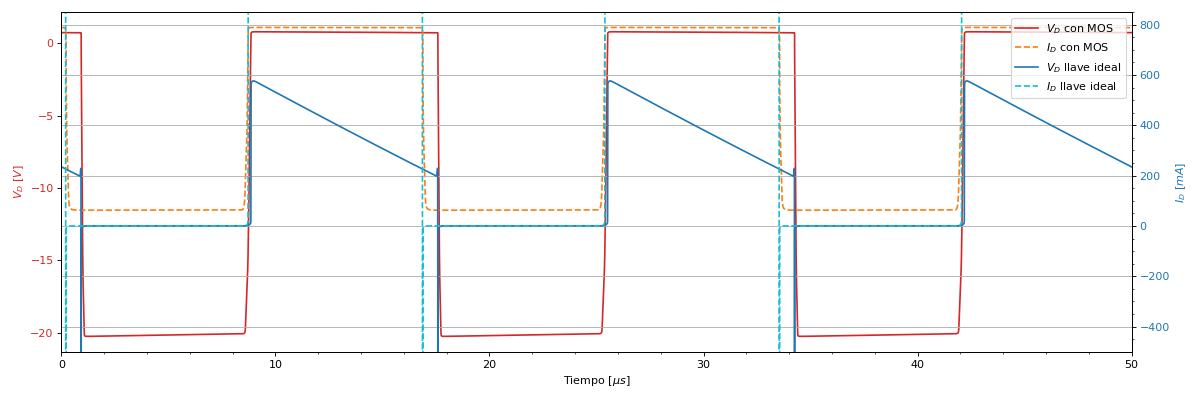
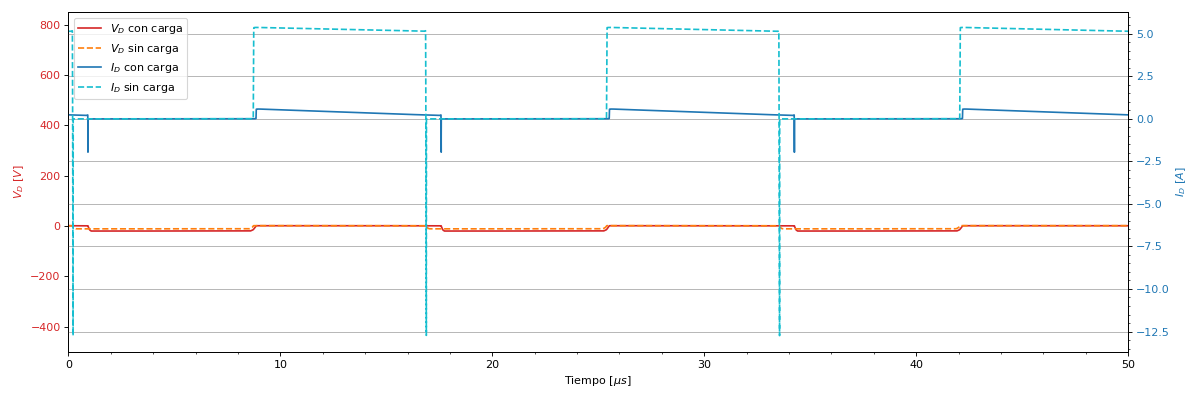
gido ke keres?

diff --git a/TP1/Ejercicio 3/Python/SpiceCurves.py b/TP1/Ejercicio 3/Python/SpiceCurves.py
@@ -67,7 +67,7 @@ def giveMe4WithCrop(x1, y1, x2, y2, x1p, y1p, x2p, y2p, yLabel1, yLabel2, xLabel
         ax1.set_ylim(ylim2[0], ylim2[1])
         ax2.set_ylim(ylim2[0], ylim2[1])
 
-def giveMe4(x1, y1, x2, y2, x1p, y1p, x2p, y2p, yLabel1, yLabel2, xLabel, label1, label2, label1p, label2p, xlim = [], ylim = []):
+def giveMe4(x1, y1, x2, y2, x1p, y1p, x2p, y2p, yLabel1, yLabel2, xLabel, label1, label2, label1p, label2p, xlim = [], ylim1 = [], ylim2 = []):
     fig, ax1 = plt.subplots(sharey=True, figsize=(15, 5), dpi=80, facecolor='w', edgecolor='k')
 
     color1 = 'tab:red'
@@ -93,8 +93,10 @@ def giveMe4(x1, y1, x2, y2, x1p, y1p, x2p, y2p, yLabel1, yLabel2, xLabel, label1
     plt.legend([l1, l2, l3, l4], [label1, label2, label1p, label2p])
     if(xlim != []):
         plt.xlim(xlim[0], xlim[1])
-    if (ylim != []):
-        plt.ylim(ylim[0], ylim[1])
+    if (ylim1 != []):
+        ax1.set_ylim(ylim1[0], ylim1[1])
+    if (ylim2 != []):
+        ax2.set_ylim(ylim2[0], ylim2[1])
 
     fig.tight_layout()
 
@@ -158,7 +160,7 @@ t_ej2 = np.abs(np.asarray(LTR_punto2.get_trace(0).data))*1e6
 t_ej1 = np.abs(np.asarray(LTR_punto1.get_trace(0).data))*1e6
 
 show3con1 = True
-show3con2 = True
+show3con2 = False
 
 ##########################################
 ##      COMPARACIÓN PUNTO 3 CON 2       ##
@@ -168,7 +170,7 @@ show3con2 = True
 Vds_ej3 = np.asarray(LTR_punto3.get_trace("V(vd)").data)
 Ids_ej3 = np.asarray(LTR_punto3.get_trace("Ig(M1)").data)
 
-if show3con1:
+if show3con2:
     Vds_ej2 = np.asarray(LTR_punto2.get_trace("V(vd)").data)
     Ids_ej2 = np.asarray(LTR_punto2.get_trace("I(S1)").data)
 
@@ -180,7 +182,7 @@ if show3con1:
 Vgs_ej3 = np.asarray(LTR_punto3.get_trace("V(vg)").data)
 Ig_ej3 = np.asarray(LTR_punto3.get_trace("Ig(M1)").data)
 
-if show3con1:
+if show3con2:
     Vgs_ej2 = np.asarray(LTR_punto2.get_trace("V(vtrig)").data)
     Ig_ej2 = np.asarray(LTR_punto2.get_trace("I(V1)").data)
 
@@ -192,7 +194,7 @@ if show3con1:
 Vl_ej3 = np.asarray(LTR_punto3.get_trace("V(vl+)").data) - np.asarray(LTR_punto3.get_trace("V(vl-)").data)
 Il_ej3 = np.asarray(LTR_punto3.get_trace("I(L1)").data)
 
-if show3con1:
+if show3con2:
     Vl_ej2 = np.asarray(LTR_punto2.get_trace("V(vl+)").data) - np.asarray(LTR_punto2.get_trace("V(vl-)").data)
     Il_ej2 = np.asarray(LTR_punto2.get_trace("I(L1)").data)
 
@@ -204,7 +206,7 @@ if show3con1:
 Vd_ej3 = np.asarray(LTR_punto3.get_trace("V(vd)").data) - np.asarray(LTR_punto3.get_trace("V(vout)").data)
 Id_ej3 = np.asarray(LTR_punto3.get_trace("I(D1)").data)
 
-if show3con1:
+if show3con2:
     Vd_ej2 = np.asarray(LTR_punto2.get_trace("V(vd)").data) - np.asarray(LTR_punto2.get_trace("V(vout)").data)
     Id_ej2 = np.asarray(LTR_punto2.get_trace("I(D1)").data)
 
@@ -217,10 +219,7 @@ if show3con1:
 ##########################################
 
 #VDS E IDS CARGA Y DESCARGA
-
-#SACAR CORRIENTES
-
-if show3con2:
+if show3con1:
     Vds_ej1 = np.asarray(LTR_punto1.get_trace("V(vd)").data)
     Ids_ej1 = np.asarray(LTR_punto1.get_trace("Id(M1)").data)
 
@@ -229,28 +228,28 @@ if show3con2:
     plt.show()
 
 #VGS E IG CARGA Y DESCARGA
-if show3con2:
+if show3con1:
     Vgs_ej1 = np.asarray(LTR_punto1.get_trace("V(vg)").data)
     Ig_ej1 = np.asarray(LTR_punto1.get_trace("Ig(M1)").data)
 
-    giveMe4WithCrop(t_ej3, Vgs_ej3, t_ej3, Ig_ej3*1e3, t_ej1, Vgs_ej1, t_ej1, Ig_ej1*1e3, '$V_{GS} \ [V]$', '$I_G \ [mA]$', 'Tiempo $[\mu s]$', '$V_{gs}$ con MOS', '$I_g$ con MOS', '$V_{gs}$ llave ideal', '$I_g$ llave ideal', [7, 9], [32, 35], [-125, 100])
+    giveMe4WithCrop(t_ej3, Vgs_ej3, t_ej3, Ig_ej3*1e3, t_ej1, Vgs_ej1, t_ej1, Ig_ej1*1e3, '$V_{GS} \ [V]$', '$I_G \ [mA]$', 'Tiempo $[\mu s]$', '$V_{gs}$ con carga', '$I_g$ con carga', '$V_{gs}$ sin carga', '$I_g$ sin carga', [7, 9], [32, 35], [-125, 100])
     plt.savefig('..\..\Tex\Ejercicio-3\ImagenesEjercicio-3\ig-vgs-1v3.png')
     plt.show()
 
 #IL y VL
-if show3con2:
-    Vl_ej2 = np.asarray(LTR_punto1.get_trace("V(vl+)").data) - np.asarray(LTR_punto1.get_trace("V(vd)").data)
-    Il_ej2 = np.asarray(LTR_punto1.get_trace("I(L1)").data)
+if show3con1:
+    Vl_ej1 = np.asarray(LTR_punto1.get_trace("V(vl+)").data) - np.asarray(LTR_punto1.get_trace("V(vd)").data)
+    Il_ej1 = np.asarray(LTR_punto1.get_trace("I(L1)").data)
 
-    giveMe4(t_ej3, Vl_ej3, t_ej3, Il_ej3*1e3, t_ej1, Vl_ej2, t_ej1, Il_ej2*1e3, '$V_{L} \ [V]$', '$I_L \ [mA]$', 'Tiempo $[\mu s]$', '$V_{L}$ con MOS', '$I_L$ con MOS', '$V_{L}$ llave ideal', '$I_L$ llave ideal', [0, 50], [0, 850])
+    giveMe4(t_ej3, Vl_ej3, t_ej3, Il_ej3, t_ej1, Vl_ej1, t_ej1, Il_ej1, '$V_{L} \ [V]$', '$I_L \ [A]$', 'Tiempo $[\mu s]$', '$V_{L}$ con carga', '$V_L$ sin carga', '$I_{L}$ con carga', '$I_L$ sin carga', [0, 50])
     plt.savefig('..\..\Tex\Ejercicio-3\ImagenesEjercicio-3\il-vl-1v3.png')
     plt.show()
 
 #ID y VD
-if show3con2:
+if show3con1:
     Vd_ej1 = np.asarray(LTR_punto1.get_trace("V(vd)").data) - np.asarray(LTR_punto1.get_trace("V(vd-)").data)
     Id_ej1 = np.asarray(LTR_punto1.get_trace("I(D1)").data)
 
-    giveMe4(t_ej3, Vd_ej3, t_ej3, Id_ej3*1e3, t_ej1, Vd_ej1, t_ej1, Id_ej1*1e3, '$V_{D} \ [V]$', '$I_D \ [mA]$', 'Tiempo $[\mu s]$', '$V_{D}$ con MOS', '$I_D$ con MOS', '$V_{D}$ llave ideal', '$I_D$ llave ideal', [0, 50], [-500, 850])
+    giveMe4(t_ej3, Vd_ej3, t_ej3, Id_ej3, t_ej1, Vd_ej1, t_ej1, Id_ej1, '$V_{D} \ [V]$', '$I_D \ [A]$', 'Tiempo $[\mu s]$', '$V_{D}$ con carga', '$V_D$ sin carga', '$I_{D}$ con carga', '$I_D$ sin carga', [0, 50], [-500, 850])
     plt.savefig('..\..\Tex\Ejercicio-3\ImagenesEjercicio-3\id-vd-1v3.png')
     plt.show()
